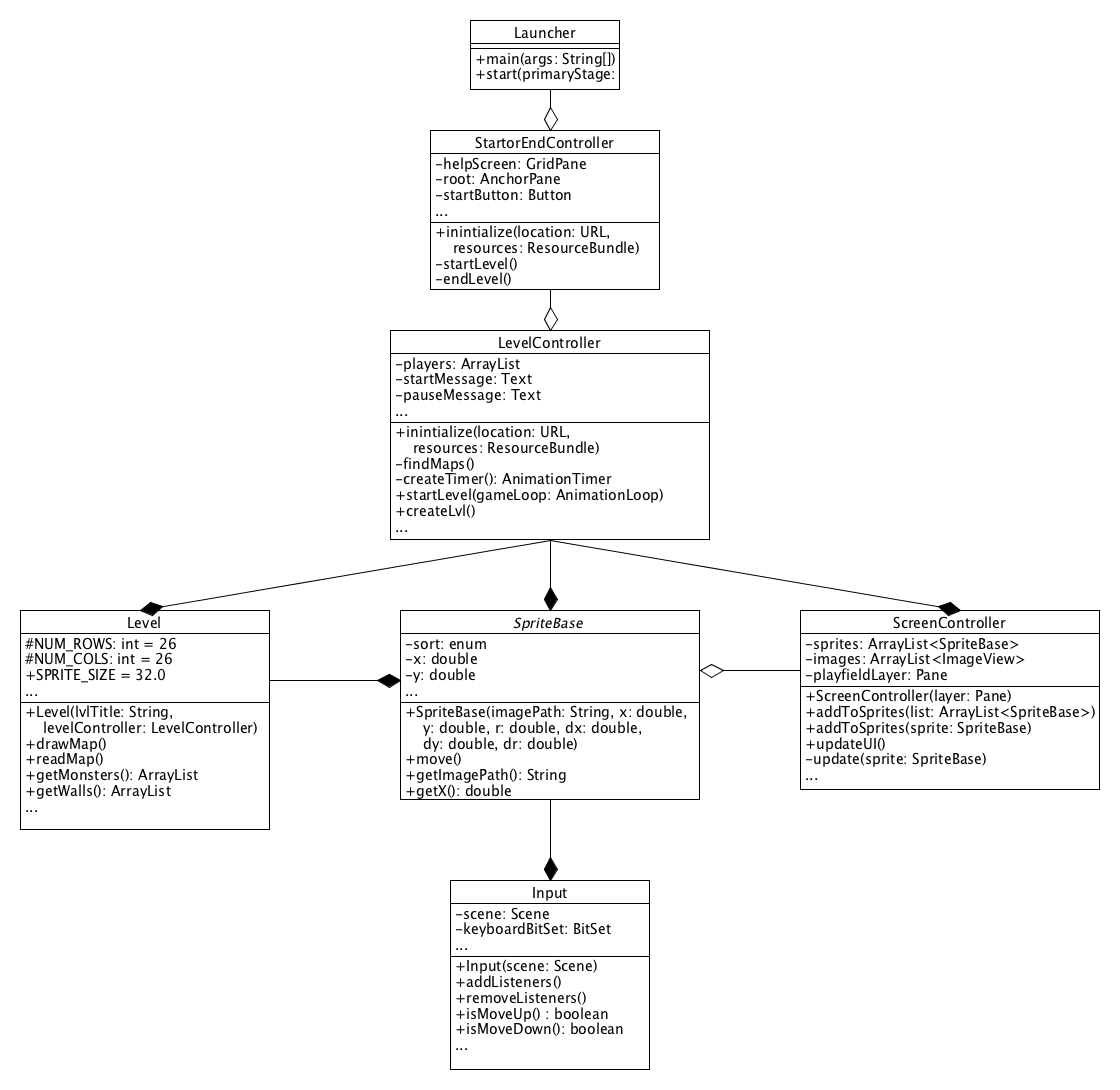
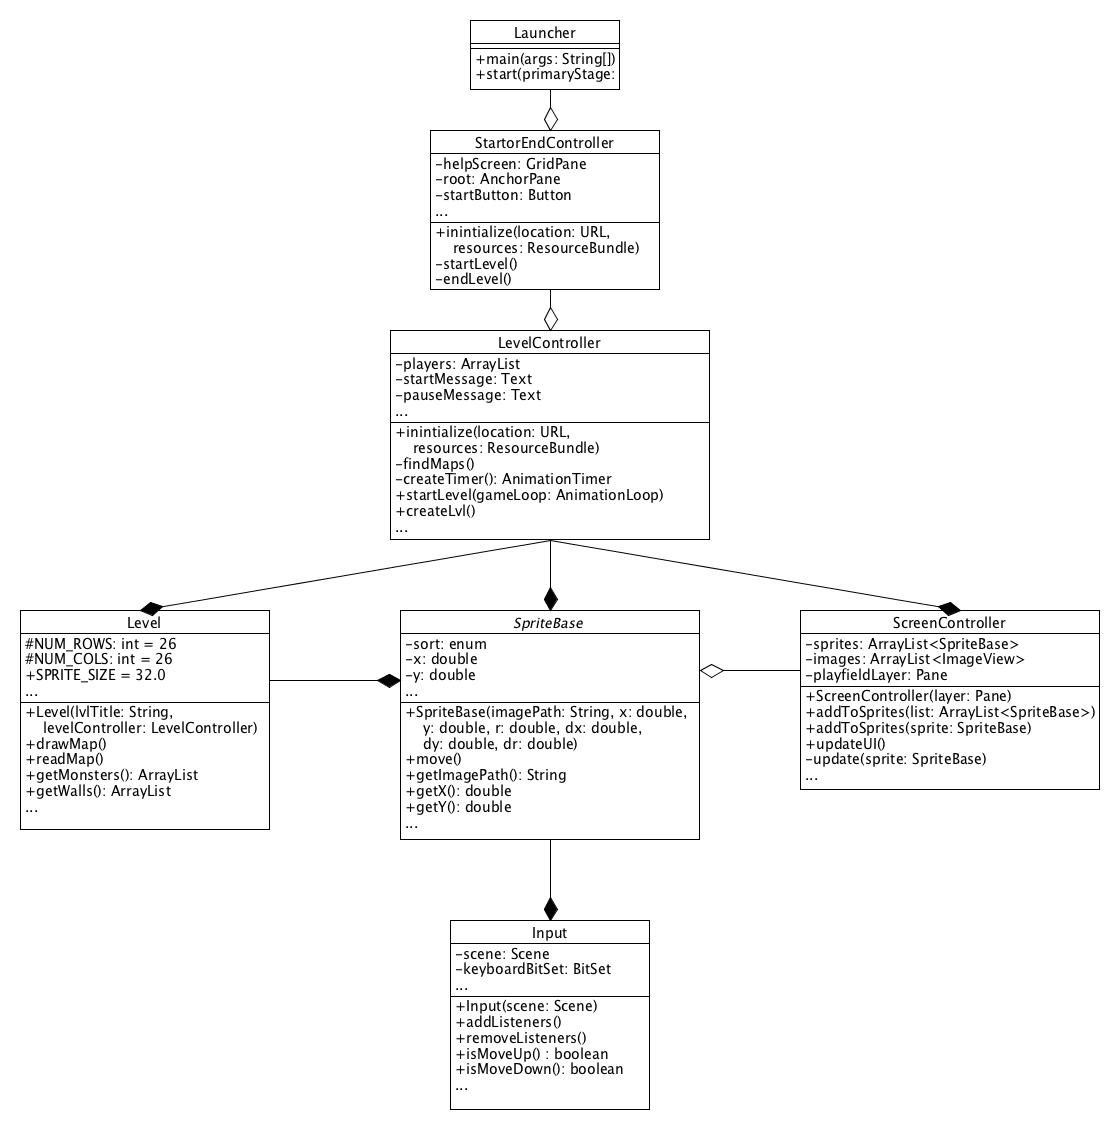
updated classDiagram (SpriteBase wasn't cut large enough to display all features). Minor fixes in assignments 1.1, 1.2 and 1.4 after speaking them through with Lily.

diff --git a/Documentation/Assignment 1/tex/core_2.tex b/Documentation/Assignment 1/tex/core_2.tex
@@ -16,9 +16,9 @@ The StartorEndController collaborates with LevelController toe load the Level wh
 
 \subsubsection{LevelController}
 Responsibilities: \\
-The LevelController-class is responsible for handling interaction between a Level and Players. It is also runs the gameLoop which renders the game every frame. Therefor it is also able to pause the game, win a game and go to a next Level. \\
+The LevelController-class is responsible for handling interaction between a Level and Spritebases. It is also runs the gameLoop which renders the game every frame. therefore it is also able to pause the game, win a game and go to a next Level. \\
 Collaborations: \\
-The LevelController-class collaborates with a Level and the Players.
+The LevelController-class collaborates with a Level and the SpriteBase.
 
 \subsubsection{ScreenController}
 Responsibilities: \\
@@ -28,7 +28,7 @@ The ScreenController works together with the LevelController as well as SpriteBa
 
 \subsubsection{Level}
 Responsibilities: \\
-The Level-class is responsible for constructing the level a customer plays. A level has to be created from loading a text-file in which is defined where to place the walls and the monsters. \\
+The Level-class is responsible for constructing the level a player plays. A level has to be created from loading a text-file in which is defined where to place the walls and the monsters. \\
 Collaborations: \\
 The Level-class collaborates with SpriteBase to display every element in the Level.  
 
@@ -36,13 +36,13 @@ The Level-class collaborates with SpriteBase to display every element in the Lev
 Responsibilities: \\
 Every element in Level has certain standard attributes such as an x,y coordinate, but also the speed in every direction and an image. All of these attributes are defined in SpriteBase. \\
 Collaborations: \\
-Depending on the kind of SpriteBase, the customer must be able to perform input. Therefor the SpriteBase collaborates with Input. 
+Depending on the kind of SpriteBase, the player must be able to perform input. therefore the SpriteBase collaborates with Input. 
 
 \subsubsection{Input}
 Responsibilities: \\
-The Input class catches all input performed by the customer. The class makes sure that when a customer presses one of the keys allowed the desired action is performed and when the key is released the action stops. \\
+The Input class catches all input performed by the player. The class makes sure that when a player presses one of the keys allowed the desired action is performed and when the key is released the action stops. \\
 Collaborations: \\
-The only object which can be moved by the customer is the Player class. Therefor this is the only class with which the Input class collaborates. 
+The only object which can be moved by the player is the Spritebase which has the property of being the played character. therefore this is the only class with which the Input class collaborates. 
 
 \subsubsection{Non-main classes}
-The classes GravityObject, Bubble, Wall, Monster, Player and Walker are all (direct or indirect) extensions of SpriteBase. Therefor they can be removed. Settings is a class with only static information and can therefor also be merged in a controller. 
+The classes GravityObject, Bubble, Wall, Monster, Player and Walker are all (direct or indirect) extensions of SpriteBase. therefore they can be removed. Settings is a class with only static information and can therefore also be merged in a controller. 

diff --git a/Documentation/Assignment 1/tex/core_1.tex b/Documentation/Assignment 1/tex/core_1.tex
@@ -41,7 +41,6 @@ Next step is to derive all necessary classes from the requirements. Useful to do
     \item Input
     \item Bubble
     \item PowerUp
-    \item Item
 \end{itemize}
 
 Since we now have all classes present, we can start constructing our CRC cards
@@ -94,12 +93,12 @@ setY           & Integer\\ \hline
 
 \begin{table}[]
 \centering
-\label{crc_character}
+\label{crc_sprite}
 \begin{tabular}{|l|l|}
 \hline
-\multicolumn{2}{|l|}{Character} \\ \hline
+\multicolumn{2}{|l|}{Sprite} \\ \hline
 \multicolumn{2}{|l|}{Superclass(es):} \\ \hline
-\multicolumn{2}{|l|}{Subclass(es): Sprite, Monster} \\ \hline
+\multicolumn{2}{|l|}{Subclass(es): Character, Monster} \\ \hline
 get/setX           & Integer \\ \hline
 get/setY           & Integer \\ \hline
 get/setR           & Integer \\ \hline
@@ -111,24 +110,24 @@ get/setImagePath   & String \\ \hline
 get/setWidth       & Integer \\ \hline
 get/setHeight      & Integer \\ \hline
 \end{tabular}
-\caption{CRC card: Character}
+\caption{CRC card: Sprite}
 \end{table}
 
 \begin{table}[]
 \centering
-\label{crc_sprite}
+\label{crc_character}
 \begin{tabular}{|l|l|}
 \hline
-\multicolumn{2}{|l|}{Sprite} \\ \hline
-\multicolumn{2}{|l|}{Superclass(es): Character} \\ \hline
-\multicolumn{2}{|l|}{Subclass(es): Input} \\ \hline
+\multicolumn{2}{|l|}{Character} \\ \hline
+\multicolumn{2}{|l|}{Superclass(es): Sprite} \\ \hline
+\multicolumn{2}{|l|}{Subclass(es): Bubble, Input} \\ \hline
 moveLeft            & Input \\ \hline
 moveRight           & Input \\ \hline
 fireWeapon          & Input \\ \hline
 die                 & - \\ \hline
 isDead              & Boolean \\ \hline
 \end{tabular}
-\caption{CRC card: Sprite}
+\caption{CRC card: Character}
 \end{table}
 
 \begin{table}[]
@@ -137,7 +136,7 @@ isDead              & Boolean \\ \hline
 \begin{tabular}{|l|l|}
 \hline
 \multicolumn{2}{|l|}{Monster} \\ \hline
-\multicolumn{2}{|l|}{Superclass(es): Character} \\ \hline
+\multicolumn{2}{|l|}{Superclass(es): Sprite} \\ \hline
 \multicolumn{2}{|l|}{Subclass(es):} \\ \hline
 get/setSpeed            & Integer \\ \hline
 checkCollision          & -\\ \hline

diff --git a/Documentation/Assignment 1/tex/core_4.tex b/Documentation/Assignment 1/tex/core_4.tex
@@ -1,6 +1,6 @@
 \chapter{The Core: Question 4}
 
-``Draw the class diagram of the aforementioned main elements of your game (do not forget to use elements such as parametrized classes or association constrains, if necessary).''
+``Draw the class diagram of the aforementioned main elements of your game (do not forget to use elements such as parametrised classes or association constrains, if necessary).''
 
 \begin{figure}[h]
 \includegraphics[width=\textwidth]{classDiagramsMain}
